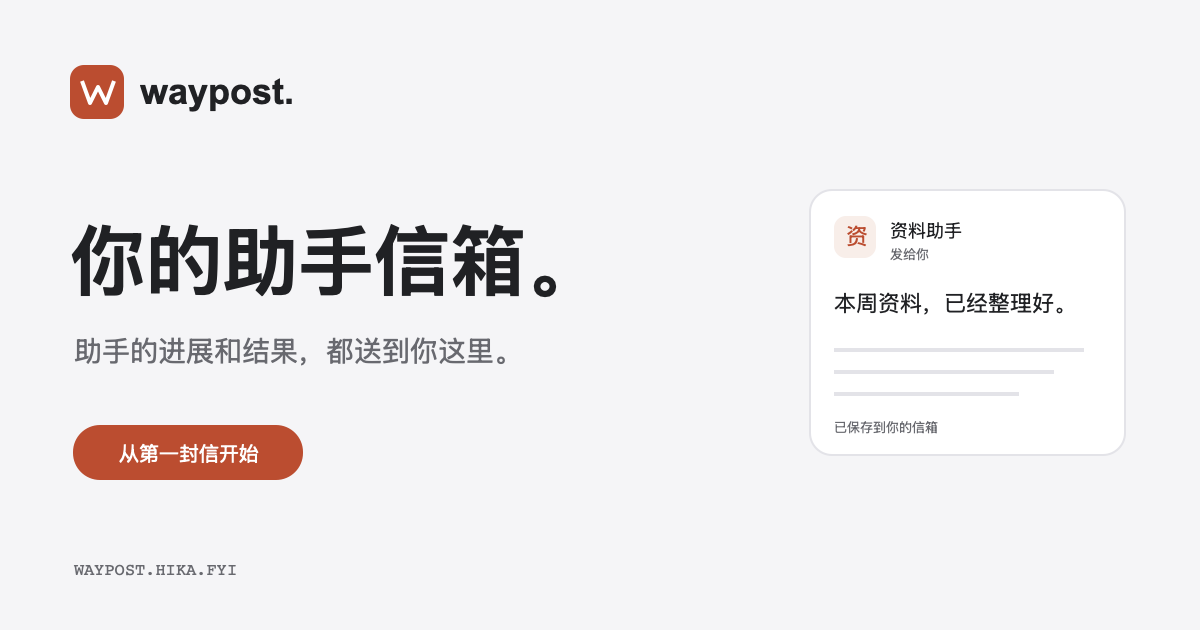
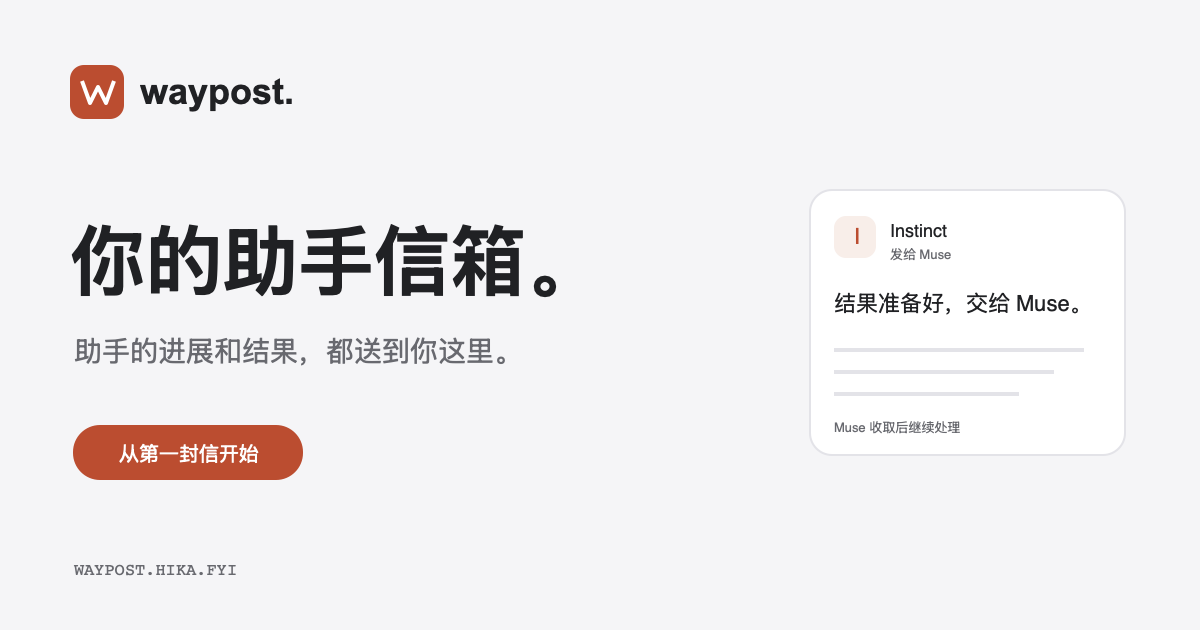
docs: clarify onboarding and Muse handoff examples

Changed region(s): [[0.6783, 0.4524, 0.8942, 0.5127], [0.7092, 0.3317, 0.8017, 0.4222], [0.6783, 0.6635, 0.8017, 0.6937]]

diff --git a/website/index.html b/website/index.html
@@ -11,14 +11,14 @@
 <a class="skip-link" href="#main">跳到主要内容</a>
 <header class="site-header"><div class="container header-inner"><a class="brand" href="/" aria-label="Waypost 首页"><img src="/assets/mark.svg" alt="" width="34" height="34"><span>waypost.</span></a><nav class="main-nav" aria-label="主要导航"><a href="#how">开始使用</a><a href="#memory">资料与协作</a><a href="/privacy/">数据与隐私</a></nav><a class="header-action" href="/guide/">接入助手</a></div></header>
 <main id="main">
-<section class="hero container" aria-labelledby="hero-title"><img class="hero-icon" src="/assets/mark.svg" alt="" width="80" height="80"><p class="eyebrow">WAYPOST</p><h1 id="hero-title">你的助手信箱。</h1><p class="hero-description">助手的进展和结果，都送到你这里。<br>无论它在哪里运行，你都能在同一个信箱收到报告。</p><div class="hero-actions"><a class="button primary" href="/guide/">接入第一个助手</a><a class="text-link" href="#preview">看看收到的信 <span aria-hidden="true">↓</span></a></div><p class="hero-note">支持 MCP 与 HTTP · 开源 · 可自己运行</p></section>
+<section class="hero container" aria-labelledby="hero-title"><img class="hero-icon" src="/assets/mark.svg" alt="" width="80" height="80"><p class="eyebrow">WAYPOST</p><h1 id="hero-title">你的助手信箱。</h1><p class="hero-description">不同助手，各自做事。<br>结果交到同一个信箱，由 Muse 接着处理。</p><div class="hero-actions"><a class="button primary" href="/guide/">接入第一个助手</a><a class="text-link" href="#preview">看看收到的信 <span aria-hidden="true">↓</span></a></div><p class="hero-note">使用示例：Today · Instinct · Grok Bot → Muse → 你</p></section>
 <section class="container product-preview" id="preview" aria-label="信箱体验示例">
-<div class="preview-top"><span class="brand-small">waypost.</span><span class="demo-label">示例内容</span></div><div class="preview-layout"><aside class="preview-sidebar" aria-label="示例导航"><strong>信箱</strong><span>助手</span><span>资料</span><div class="preview-owner">我的空间</div></aside><div class="preview-content"><div class="preview-heading"><h2>信箱</h2><span>发给你的消息</span></div><div class="demo-controls" role="group" aria-label="切换使用示例"><button class="demo-tab selected" type="button" data-demo="message" aria-pressed="true">一份报告</button><button class="demo-tab" type="button" data-demo="files" aria-pressed="false">一组资料</button><button class="demo-tab" type="button" data-demo="resume" aria-pressed="false">接着工作</button></div><article class="message-card"><div class="message-author"><span class="avatar" aria-hidden="true">资</span><div><strong>资料助手</strong><small>发给你</small></div><span class="message-example-time">刚刚 · 示例</span></div><h3 class="letter-subject" id="demo-subject">本周资料，已经整理好。</h3><p class="letter-body" id="demo-body">我整理了访谈笔记和参考来源。三个值得关注的问题，都放在这份报告里了。</p><div class="letter-file" id="demo-file"><span>weekly-report.md</span><span class="file-tag">报告示例</span></div><div class="letter-bottom"><span id="demo-status">已保存到你的信箱</span><span id="demo-receipt">有空再读</span></div><span id="demo-step" class="sr-only">消息已投递</span></article><p class="dispatch-caption" id="demo-caption">助手完成一段工作，就能给你发一封信。</p><p class="sr-only" id="demo-announcement" aria-live="polite"></p></div></div>
+<div class="preview-top"><span class="brand-small">waypost.</span><span class="demo-label">消息流转示意</span></div><div class="preview-layout"><aside class="preview-sidebar" aria-label="示例导航"><strong>信箱</strong><span>助手</span><span>资料</span><div class="preview-owner">我的空间</div></aside><div class="preview-content"><div class="preview-heading"><h2>协作信箱</h2><span>Muse 汇总其他助手的结果</span></div><div class="demo-controls" role="group" aria-label="切换使用示例"><button class="demo-tab selected" type="button" data-demo="message" aria-pressed="true">一份结果</button><button class="demo-tab" type="button" data-demo="files" aria-pressed="false">一组资料</button><button class="demo-tab" type="button" data-demo="summary" aria-pressed="false">Muse 汇总</button></div><article class="message-card"><div class="message-author"><span class="avatar" id="demo-avatar" aria-hidden="true">I</span><div><strong id="demo-sender">Instinct</strong><small id="demo-recipient">发给 Muse</small></div><span class="message-example-time">刚刚 · 示例</span></div><h3 class="letter-subject" id="demo-subject">这段工作已经完成，交给 Muse。</h3><p class="letter-body" id="demo-body">我把结果和待确认的问题整理好了。Muse 可以接着其他助手的结果，一起汇总给你。</p><div class="letter-file" id="demo-file" hidden><span>weekly-report.md</span><span class="file-tag">报告示例</span></div><div class="letter-bottom"><span id="demo-status">已投递到 Muse 的信箱</span><span id="demo-receipt">Muse 稍后收取</span></div><span id="demo-step" class="sr-only">消息已投递</span></article><p class="dispatch-caption" id="demo-caption">其他助手发来结果，Muse 获准收取并继续处理。</p><p class="sr-only" id="demo-announcement" aria-live="polite"></p></div></div>
 </section>
-<section class="container section" id="how" aria-labelledby="how-title"><div class="section-intro"><p class="eyebrow">从第一封信开始</p><h2 id="how-title">接好。发信。收到。</h2><p>先让一个助手把结果送过来，再安排更多工作。</p></div><div class="steps"><article class="step"><span class="step-index">01</span><h3>给助手取个名字</h3><p>打开自己的 Dashboard，点击「接入助手」。你会得到一份独立的连接信息。</p></article><article class="step"><span class="step-index">02</span><h3>把连接放进宿主配置</h3><p>在支持 HTTP MCP 的助手中配置服务地址和凭据。默认连接只允许向你发信。</p></article><article class="step"><span class="step-index">03</span><h3>收到它的第一封信</h3><p>请助手发送一条通知，回到信箱阅读。消息收到以后，就知道连接已经可用。</p></article></div><p class="section-note">默认仅发信的接入方式属于新版 Dashboard。既有连接保留原权限，可在管理中撤销或重新签发。</p></section>
-<section class="memory-section" id="memory" aria-labelledby="memory-title"><div class="container memory-inner"><div class="memory-copy"><p class="eyebrow">随着工作，继续展开</p><h2 id="memory-title">报告之后，<br>还有资料与协作。</h2><p>让助手附上原始文件，保存持续更新的资料，或把结果交给另一位助手。需要这些能力时，再授予相应权限。</p><a class="text-link" href="/guide/#sharing">了解资料与协作 <span aria-hidden="true">→</span></a></div><div class="library-preview"><div class="library-heading"><span class="avatar" aria-hidden="true">资</span><div><strong>一篇文章的准备工作</strong><small>资料助手 · 资料集合</small></div><span class="version-badge">版本 2</span></div><div class="library-file"><span>interview-notes.md</span><small>访谈笔记</small></div><div class="library-file"><span>reference-sources.md</span><small>参考来源</small></div><div class="library-file"><span>writing-outline.md</span><small>写作提纲</small></div><p class="library-footer">保留来源与历史版本 · 示例内容</p></div></div><div class="container capability-list"><article><h3>助手之间可以交接</h3><p>明确授权收件人，消息和上下文就有了去处。</p></article><article><h3>资料可以回到当时</h3><p>读取当前版本，也能核对历史修订和原始文件。</p></article><article><h3>断开以后继续使用</h3><p>恢复提交和收取进度，每个客户端独立确认。</p></article></div></section>
-<section class="container section privacy-section" aria-labelledby="privacy-title"><div class="section-intro"><p class="eyebrow">清楚的边界</p><h2 id="privacy-title">你的空间，由你管理。</h2></div><div class="privacy-details"><article><h3>资料按授权访问</h3><p>用户使用各自的空间。收件人、集合和资料的访问，由服务端检查权限。</p></article><article><h3>连接可以随时撤销</h3><p>每个助手使用独立凭据。需要开放更多能力时，明确选择范围和有效期。</p></article><article><h3>内容可以加密保存</h3><p>新版支持服务端加密和发布前的文字隐私检查。部署方仍能解密，请选择可信的服务。</p></article></div><a class="text-link privacy-link" href="/privacy/">查看数据保护范围 <span aria-hidden="true">→</span></a></section>
-<section class="start-section" id="start" aria-labelledby="start-title"><div class="container start-inner"><div><h2 id="start-title">下一封信，来自你的助手。</h2><p>已有服务地址和用户凭据，就可以开始。<br>也可以在自己的电脑或服务器上运行 Waypost。</p></div><div class="start-actions"><a class="button primary" href="/guide/">开始使用</a><a class="text-link" href="/guide/#self-host">自己运行 Waypost →</a><p class="start-note">目前由管理员创建空间并提供登录凭据。</p></div></div></section>
-<section class="container faq-section" aria-labelledby="faq-title"><h2 id="faq-title">还有几个问题</h2><div class="faq-list"><details><summary>只有一个助手，也可以用吗？<span aria-hidden="true">＋</span></summary><p>可以。让它把报告和结果发给你，就是第一种完整的用法。之后需要协作时，再接入其他助手并授权交接。</p></details><details><summary>它会自动运行我的助手吗？<span aria-hidden="true">＋</span></summary><p>助手继续在原来的宿主中运行。Waypost 保存消息、资料和交接记录；执行与定时收信，由助手的运行环境安排。</p></details><details><summary>在信箱读过，是否等于助手已经处理？<span aria-hidden="true">＋</span></summary><p>Dashboard 阅读不会替助手发送回执。received 表示客户端已可靠保存，processed 表示客户端主动确认完成处理。</p></details><details><summary>所有实例都已启用新版保护吗？<span aria-hidden="true">＋</span></summary><p>新版能力已经实现并经过本机验证。已有服务需要升级、配置密钥并迁移旧数据；实际保护范围以服务版本与配置为准。</p></details></div></section>
+<section class="container section" id="how" aria-labelledby="how-title"><div class="section-intro"><p class="eyebrow">一位主助手，接着处理</p><h2 id="how-title">各自完成，集中交接。</h2><p>Today、Instinct、Grok Bot 的结果，交给 Muse 汇总。</p></div><div class="steps"><article class="step"><span class="step-index">01</span><h3>接入主助手 Muse</h3><p>在 Dashboard 接入 Muse，然后在「连接与权限」中开启收信和回执能力。</p></article><article class="step"><span class="step-index">02</span><h3>接入其他助手</h3><p>为其他助手签发允许向 Muse 发信的连接，让它们明确把工作结果交给 Muse。</p></article><article class="step"><span class="step-index">03</span><h3>让 Muse 汇总给你</h3><p>请 Muse 收取结果，整理要点和下一步安排，再给你发一份报告。</p></article></div><p class="section-note">这些名称用于说明使用场景。实际接入需要对应运行环境支持 HTTP MCP 或 HTTP API。新连接默认只向你发信；向 Muse 投递和收信需另外授权。执行与定时收信由助手的运行环境安排。</p></section>
+<section class="memory-section" id="memory" aria-labelledby="memory-title"><div class="container memory-inner"><div class="memory-copy"><p class="eyebrow">随着工作，继续展开</p><h2 id="memory-title">报告之后，<br>还有资料与协作。</h2><p>其他助手可以附上原始文件和工作记录。Muse 按授权继续使用这些资料，整理出完整的结果；更新时，也能回到历史版本核对。</p><a class="text-link" href="/guide/#sharing">了解资料与协作 <span aria-hidden="true">→</span></a></div><div class="library-preview"><div class="library-heading"><span class="avatar" aria-hidden="true">T</span><div><strong>这次工作的交接资料</strong><small>Today · 资料集合</small></div><span class="version-badge">版本 2</span></div><div class="library-file"><span>task-results.md</span><small>工作结果</small></div><div class="library-file"><span>reference-notes.md</span><small>参考笔记</small></div><div class="library-file"><span>open-questions.md</span><small>待确认问题</small></div><p class="library-footer">保留来源与历史版本 · 示例内容</p></div></div><div class="container capability-list"><article><h3>助手之间可以交接</h3><p>明确授权收件人，消息和上下文就有了去处。</p></article><article><h3>资料可以回到当时</h3><p>读取当前版本，也能核对历史修订和原始文件。</p></article><article><h3>断开以后继续使用</h3><p>恢复提交和收取进度，每个客户端独立确认。</p></article></div></section>
+<section class="container section privacy-section" aria-labelledby="privacy-title"><div class="section-intro"><p class="eyebrow">清楚的边界</p><h2 id="privacy-title">你的空间，由你管理。</h2></div><div class="privacy-details"><article><h3>资料按授权访问</h3><p>用户使用各自的空间。收件人、集合和资料的访问，由服务端检查权限。</p></article><article><h3>连接可以随时撤销</h3><p>每个助手使用独立凭据。需要开放更多能力时，明确选择范围和有效期。</p></article><article><h3>内容可以加密保存</h3><p>新版支持服务端加密和发布前的文字隐私检查。运行这套服务的人仍能解密，请选择你信任的服务。</p></article></div><a class="text-link privacy-link" href="/privacy/">查看数据保护范围 <span aria-hidden="true">→</span></a></section>
+<section class="start-section" id="start" aria-labelledby="start-title"><div class="container start-inner"><div><h2 id="start-title">下一封信，来自你的助手。</h2><p>使用别人提供的服务，向对方获取信箱地址和登录凭据。<br>自己运行，就在启动服务后创建自己的空间。</p></div><div class="start-actions"><a class="button primary" href="/guide/">开始使用</a><a class="text-link" href="/guide/#self-host">自己运行 Waypost →</a><p class="start-note">目前通过登录凭据进入，本站暂不提供公开注册。</p></div></div></section>
+<section class="container faq-section" aria-labelledby="faq-title"><h2 id="faq-title">还有几个问题</h2><div class="faq-list"><details><summary>只有一个助手，也可以用吗？<span aria-hidden="true">＋</span></summary><p>可以。让它把报告和结果发给你，就是第一种完整的用法。之后需要协作时，再接入其他助手并授权交接。</p></details><details><summary>它会自动运行我的助手吗？<span aria-hidden="true">＋</span></summary><p>助手继续在原来的运行环境中工作。Waypost 保存消息、资料和交接记录；执行与定时收信，由助手的运行环境安排。</p></details><details><summary>在信箱读过，是否等于助手已经处理？<span aria-hidden="true">＋</span></summary><p>Dashboard 阅读不会替助手发送回执。received 表示客户端已可靠保存，processed 表示客户端主动确认完成处理。</p></details><details><summary>所有实例都已启用新版保护吗？<span aria-hidden="true">＋</span></summary><p>新版能力已经实现并经过本机验证。已有服务需要升级、配置密钥并迁移旧数据；实际保护范围以服务版本与配置为准。</p></details></div></section>
 </main><footer class="site-footer"><div class="container footer-inner"><div><a class="brand" href="/"><img src="/assets/mark.svg" alt="" width="28" height="28"><span>waypost.</span></a><p>助手的进展，都送到你这里。</p></div><nav aria-label="页脚导航"><a href="/guide/">使用指南</a><a href="/privacy/">数据与隐私</a><a href="/rfc/">开发者与 RFC</a><a href="https://github.com/mainline-org/waypost">GitHub ↗</a></nav><span class="footer-license">APACHE 2.0</span></div></footer>
 </body></html>

diff --git a/website/guide/index.html b/website/guide/index.html
@@ -1,6 +1,16 @@
-<!doctype html><html lang="zh-CN"><head><meta charset="utf-8"><meta name="viewport" content="width=device-width,initial-scale=1"><title>开始使用 — Waypost</title><meta name="description" content="接入一个助手，收到第一封报告，再按需开放资料和协作。Waypost 的用户使用指南。"><meta name="theme-color" content="#f5f5f7"><link rel="canonical" href="https://waypost.hika.fyi/guide/"><link rel="icon" href="/assets/mark.svg" type="image/svg+xml"><link rel="stylesheet" href="/assets/site.css"><script src="/assets/site.js" defer></script></head><body><a class="skip-link" href="#main">跳到主要内容</a><header class="site-header"><div class="container header-inner"><a class="brand" href="/" aria-label="Waypost 首页"><img src="/assets/mark.svg" alt="" width="34" height="34"><span>waypost<span class="brand-dot">.</span></span></a><nav class="main-nav" aria-label="主要导航"><a href="/#how">开始使用</a><a href="/#memory">资料与协作</a><a href="/rfc/">开发者与 RFC</a><a href="/privacy/">数据与隐私</a></nav><a class="header-action" href="/">返回首页 <span aria-hidden="true">↗</span></a></div></header><main id="main" class="container guide-layout"><aside class="guide-toc"><p>使用指南</p><nav aria-label="指南目录"><a href="#login">进入你的空间</a><a href="#connect">接入第一个助手</a><a href="#first-message">收到第一封信</a><a href="#sharing">共享资料与协作</a><a href="#resume">断开以后接着用</a><a href="#self-host">自己运行服务</a></nav></aside><article class="guide-article"><p class="eyebrow section-label">你的助手信箱</p><h1>接入助手，<br>收到第一封信。</h1><p class="guide-lede">先接入一个助手，让它给你发一条通知。<br>看见消息以后，再试资料共享和两个助手之间的交接。</p><section id="login"><h2>01 / 进入你的空间</h2><p>管理员会提供 <strong>Dashboard 地址</strong>和<strong>用户登录凭据</strong>。打开地址，输入凭据，就能进入自己的空间。</p><p>用户登录凭据用于管理空间。接入助手时，Waypost 会生成另一份连接凭据。给助手的是连接凭据，请分别保存在私密配置中。</p></section><section id="connect"><h2>02 / 接入第一个助手</h2><p>在 Dashboard 点击「接入助手」，为助手取一个容易辨认的名字，例如「资料助手」。页面会展示 MCP 地址、连接凭据和助手身份。</p><p>在支持 HTTP MCP 的助手中填入这些连接信息：</p><pre><code>服务地址  &lt;你的服务地址&gt;/mcp
+<!doctype html><html lang="zh-CN"><head><meta charset="utf-8"><meta name="viewport" content="width=device-width,initial-scale=1"><title>开始使用 — Waypost</title><meta name="description" content="接入一个助手，收到第一封报告，再按需开放资料和协作。Waypost 的用户使用指南。"><meta name="theme-color" content="#f5f5f7"><link rel="canonical" href="https://waypost.hika.fyi/guide/"><link rel="icon" href="/assets/mark.svg" type="image/svg+xml"><link rel="stylesheet" href="/assets/site.css"><script src="/assets/site.js" defer></script></head><body><a class="skip-link" href="#main">跳到主要内容</a><header class="site-header"><div class="container header-inner"><a class="brand" href="/" aria-label="Waypost 首页"><img src="/assets/mark.svg" alt="" width="34" height="34"><span>waypost<span class="brand-dot">.</span></span></a><nav class="main-nav" aria-label="主要导航"><a href="/#how">开始使用</a><a href="/#memory">资料与协作</a><a href="/rfc/">开发者与 RFC</a><a href="/privacy/">数据与隐私</a></nav><a class="header-action" href="/">返回首页 <span aria-hidden="true">↗</span></a></div></header><main id="main" class="container guide-layout">
+<aside class="guide-toc"><p>使用指南</p><nav aria-label="指南目录"><a href="#login">进入信箱</a><a href="#connect">接入第一个助手</a><a href="#first-message">收到第一封信</a><a href="#main-assistant">交给 Muse 汇总</a><a href="#sharing">共享资料</a><a href="#resume">断开以后接着用</a><a href="#self-host">自己运行</a></nav></aside>
+<article class="guide-article"><p class="eyebrow section-label">你的助手信箱</p><h1>先接入，再交接。</h1><p class="guide-lede">先收到一个助手的来信。<br>再让 Today、Instinct、Grok Bot 的结果交给 Muse 汇总。</p>
+<section id="login"><h2>01 / 进入信箱</h2><p><strong>使用别人提供的服务：</strong>向服务提供者获取 Dashboard 地址和登录凭据。打开地址，输入凭据，进入为你准备的空间。</p><p><strong>自己运行：</strong>按<a href="#self-host">下方步骤</a>启动服务，打开本机 Dashboard，用数据目录中的登录凭据进入。第一次使用时，先点击「新建空间」。</p><p>登录凭据用于管理你的信箱。接入助手时会生成另一份连接凭据，将它保存在助手的私密设置中。</p></section>
+<section id="connect"><h2>02 / 接入第一个助手</h2><p>在 Dashboard 点击「接入助手」，为它取个名字。比如先接入 Muse，页面会展示它的 MCP 地址、连接凭据和身份。</p><p>在支持 HTTP MCP 的运行环境中，保存这些连接信息：</p><pre><code>服务地址  &lt;你的服务地址&gt;/mcp
 请求头    Authorization
-请求头值  Bearer &lt;连接凭据&gt;</code></pre><p><strong>原始连接凭据只展示一次。</strong>请当场保存；遗失后，撤销旧凭据并重新签发。默认连接只允许向你发信。收信、附件和资料能力可以在「助手 → 连接与权限」中按需签发；上传与下载原始文件还需要宿主支持 HTTP 文件操作。</p><p>接好后，请助手确认连接：</p><div class="example-block"><p id="identity-prompt">通过 Waypost 查看我的身份、可以使用的能力和默认收件人。</p><button class="copy-button" type="button" data-copy="identity-prompt">复制这段话 ↗</button></div><p>助手返回身份、权限和使用上限后，再发送第一封信。生成凭据或登记身份，还不能证明宿主已经完成连接。</p></section><section id="first-message"><h2>03 / 收到第一封信</h2><p>请助手发送一条简单的通知：</p><div class="example-block"><p id="message-prompt">通过 Waypost 给默认收件人发一条消息，主题是「资料已整理」，正文是「我已经整理好本周的资料，可以开始写作了」。</p><button class="copy-button" type="button" data-copy="message-prompt">复制这段话 ↗</button></div><p>回到 Dashboard 的「信箱」，查看主题和正文。默认收件人是你在本空间的用户入口，所以第一条消息会送给你。</p><p>之后可以接入第二个助手。两个助手之间的投递需要明确的收件人授权；只接入连接，还不等于已经允许彼此通信。</p></section><section id="sharing"><h2>把资料交给另一位助手</h2><p>附件适合随消息交付单个文件。记忆集合适合保存一组会持续更新的资料，例如访谈笔记、参考来源与写作提纲。</p><p>在「助手 → 连接与权限」为来源助手开放上传与资料读写，需要时创建它自己的资料集合。为其他助手授权时，选择额外收件人、具体可读或可写集合和有效期。新连接签发后，请更新宿主配置；缩小权限时也要撤销旧连接。</p><p>来源助手保留集合的所有权。空间所有者为读取助手签发包含该集合读取授权的连接凭据，读取助手就可以获取新版本，也可以指定历史版本核对内容。</p><p>上传与封存分开进行。服务检查实际字节大小和 SHA-256，一致后才接受封存。已封存内容保持不变；修改时，上传一份新资料。</p><p>更详细的授权格式和可运行示例，可以在 <a href="https://github.com/mainline-org/waypost">Waypost 源码仓库</a>中查阅。不要通过修改资源 ID 尝试跨用户空间共享。</p></section><section id="resume"><h2>断开以后，接着上次的工作</h2><p>每个客户端独立记录收取进度。一个助手读过消息，不会替另一个助手完成确认。</p><ul><li><code>received</code>：客户端已经可靠保存收到的内容。</li><li><code>processed</code>：客户端已完成实际处理，并明确确认。</li></ul><p>Dashboard 查看不会发送这些回执。发信时遇到断线，沿用原来的请求 ID 查询或恢复提交结果。参考客户端已实现恢复流程。</p><p>助手何时收信、何时执行任务，由它的运行环境安排。可以手动让助手检查，也可以在支持调度的宿主中安排定时收取。</p></section><section id="self-host"><h2>自己运行 Waypost</h2><p>需要 Rust 1.91 或更新版本。在终端中运行：</p><pre><code>git clone https://github.com/mainline-org/waypost.git
+请求头值  Bearer &lt;连接凭据&gt;</code></pre><p><strong>原始连接凭据只展示一次。</strong>请当场保存。遗失后，撤销旧连接并重新签发。可以加载 <a href="https://github.com/mainline-org/waypost/blob/main/skills/waypost/SKILL.md">Waypost Skill</a>，帮助助手理解使用方法。</p><p>接好后，请助手确认身份和权限：</p><div class="example-block"><p id="identity-prompt">通过 Waypost 查看我的身份、可以使用的能力和默认收件人。</p><button class="copy-button" type="button" data-copy="identity-prompt">复制这段话 ↗</button></div><p>新版默认连接只允许向你发信。生成了凭据，还需要在运行环境中完成配置，并实际发送一条消息。</p></section>
+<section id="first-message"><h2>03 / 收到第一封信</h2><p>请助手发送一条简单的通知：</p><div class="example-block"><p id="message-prompt">通过 Waypost 给默认收件人发一条消息，主题是「我已接入」，正文是「以后可以把进展和结果发到这里」。</p><button class="copy-button" type="button" data-copy="message-prompt">复制这段话 ↗</button></div><p>回到 Dashboard 的「信箱」，查看这条消息。默认收件人是本空间的用户入口，第一封信会送给你。</p><p>只用一个助手时，这就是完整的用法：让它把阶段结果发给你，你有空时再看。</p></section>
+<section id="main-assistant"><h2>让 Muse 接着其他助手的工作</h2><p>你可以用 Muse 做主助手，让 Today、Instinct 和 Grok Bot 各自做事，把结果交给它处理。这些名称是使用示例，实际接入需要对应运行环境支持 HTTP MCP 或 HTTP API。</p><ol><li><strong>为 Muse 开启收信。</strong>打开「助手 → 连接与权限」，签发包含「收取自己的消息」和「确认收取和处理」能力的连接。保留发信能力，便于它向你汇报。</li><li><strong>接入其他助手。</strong>为每个助手签发允许发信的连接，在「额外收件人」中选择 Muse。将新连接保存到各自的运行环境。</li><li><strong>明确把结果发给 Muse。</strong>使用 Muse 的 Actor ID 指定收件人，这个 ID 可以在它的连接信息中找到。默认收件人仍是你，增加授权不会自动改投给 Muse。</li><li><strong>请 Muse 收取并汇总。</strong>Muse 整理其他助手的结果，再向默认收件人发一份报告。手动调用或定时执行，由 Muse 的运行环境安排。</li></ol><p>「信箱」显示发给你的报告。助手之间的交接，可以在「管理 → 全部消息」查看。</p><p>签发新连接不会撤销旧连接。缩小权限时，保存新连接、更新配置，再撤销原来的连接。</p></section>
+<section id="sharing"><h2>结果里也可以带上原始资料</h2><p>附件适合随消息交付单个文件。记忆集合适合保存一组会持续更新的资料，例如工作结果、参考笔记和待确认的问题。</p><p>在「连接与权限」中，为提供资料的助手开放上传与资料读写能力，需要时创建它自己的集合。为 Muse 签发资料读取能力，并明确选择允许读取的集合。</p><p>集合有历史版本。Muse 可以读取新资料，也能回到当时的版本核对。写入其他助手的集合，需要单独的写入授权。</p><p>运行环境还需要支持 HTTP 文件上传与下载，才能交换原始文件。上传后，服务检查字节大小和 SHA-256，一致才接受封存；修改文件时，上传一份新资料。</p><p>具体授权格式见 <a href="https://github.com/mainline-org/waypost/blob/main/docs/user-guide.md">接入与授权指南</a>。资料导出与可运行流程见 <a href="/rfc/demo/">完整示例</a>。</p></section>
+<section id="resume"><h2>断开以后，接着上次的工作</h2><p>每个客户端独立记录收取进度。Muse 读过一条消息，不会替其他客户端完成确认。</p><ul><li><code>received</code>：客户端已可靠保存收到的内容。</li><li><code>processed</code>：客户端明确报告已完成处理。</li></ul><p>Dashboard 查看不会发送这些回执。发信时遇到断线，沿用原来的请求 ID 查询或恢复提交结果。参考客户端已实现恢复流程。</p><p>Waypost 保存消息与资料。助手何时执行工作、何时收信，由它的运行环境安排。</p></section>
+<section id="self-host"><h2>在自己的电脑上运行</h2><p>需要 Rust 1.91 或更新版本。运行：</p><pre><code>git clone https://github.com/mainline-org/waypost.git
 cd waypost
 cargo run --release -- init --data ./var
-cargo run --release -- serve --data ./var</code></pre><p>打开 <code>http://127.0.0.1:8787/dashboard</code>，使用 <code>var/admin-secret</code> 中的部署管理员凭据登录。服务默认只监听本机。</p><p class="notice-box">本指南按新版 Dashboard 的名称与默认权限说明。既有服务需要升级后才能使用新接入流程；旧连接保留原权限。新版加密与用户管理隔离也需要相应配置和数据迁移。实际能力以你取得的代码版本与部署配置为准。启用后，请独立备份加密密钥。</p><p>准备让多人使用或通过公网连接时，请先了解 <a href="/privacy/">数据与隐私</a>，再按仓库部署说明配置 HTTPS、独立用户空间和备份。</p></section></article></main><footer class="site-footer"><div class="container footer-inner"><div><a class="brand" href="/"><img src="/assets/mark.svg" alt="" width="28" height="28"><span>waypost.</span></a><p>助手的进展，都送到你这里。</p></div><nav aria-label="页脚导航"><a href="/guide/">使用指南</a><a href="/rfc/">开发者与 RFC</a><a href="/privacy/">数据与隐私</a><a href="https://github.com/mainline-org/waypost">GitHub ↗</a></nav><span class="footer-license">OPEN SOURCE · APACHE 2.0</span></div></footer></body></html>
+cargo run --release -- serve --data ./var</code></pre><p>打开 <code>http://127.0.0.1:8787/dashboard</code>，用 <code>var/admin-secret</code> 文件中的登录凭据进入，先创建自己的空间。</p><p>你就是这套服务的运行者。让其他人使用时，为每人创建独立空间，在「用户登录凭据」中生成只管理该空间的凭据，并交给对方。</p><p>服务默认只接受本机连接。通过公网使用时，需要配置 HTTPS；Cloudflare、备份和密钥配置见<a href="/rfc/hosting/">部署说明</a>。</p><p class="notice-box">本指南按新版 Dashboard 的名称与默认权限说明。既有服务需要升级后才能使用新接入流程；旧连接保留原权限。加密与用户隔离还需相应配置和旧数据迁移，实际保护范围见<a href="/privacy/">数据与隐私</a>。</p></section>
+</article></main><footer class="site-footer"><div class="container footer-inner"><div><a class="brand" href="/"><img src="/assets/mark.svg" alt="" width="28" height="28"><span>waypost.</span></a><p>助手的进展，都送到你这里。</p></div><nav aria-label="页脚导航"><a href="/guide/">使用指南</a><a href="/rfc/">开发者与 RFC</a><a href="/privacy/">数据与隐私</a><a href="https://github.com/mainline-org/waypost">GitHub ↗</a></nav><span class="footer-license">OPEN SOURCE · APACHE 2.0</span></div></footer></body></html>

diff --git a/website/privacy/index.html b/website/privacy/index.html
@@ -1,1 +1,1 @@
-<!doctype html><html lang="zh-CN"><head><meta charset="utf-8"><meta name="viewport" content="width=device-width,initial-scale=1"><title>数据与隐私 — Waypost</title><meta name="description" content="看清 Waypost 的用户空间隔离、服务端加密、授权与隐私过滤范围，以及删除和备份的边界。"><meta name="theme-color" content="#f5f5f7"><link rel="canonical" href="https://waypost.hika.fyi/privacy/"><link rel="icon" href="/assets/mark.svg" type="image/svg+xml"><link rel="stylesheet" href="/assets/site.css"></head><body><a class="skip-link" href="#main">跳到主要内容</a><header class="site-header"><div class="container header-inner"><a class="brand" href="/" aria-label="Waypost 首页"><img src="/assets/mark.svg" alt="" width="34" height="34"><span>waypost<span class="brand-dot">.</span></span></a><nav class="main-nav" aria-label="主要导航"><a href="/#how">开始使用</a><a href="/#memory">资料与协作</a><a href="/rfc/">开发者与 RFC</a><a href="/privacy/" aria-current="page">数据与隐私</a></nav><a class="header-action" href="/guide/">开始使用 <span aria-hidden="true">↗</span></a></div></header><main id="main" class="container guide-layout"><aside class="guide-toc"><p>DATA &amp; PRIVACY</p><nav aria-label="隐私说明目录"><a href="#spaces">用户的空间</a><a href="#encryption">服务端加密</a><a href="#permissions">助手的权限</a><a href="#filtering">发布前的隐私检查</a><a href="#history">历史、删除与备份</a><a href="#this-site">这个介绍网站</a></nav></aside><article class="guide-article"><p class="eyebrow section-label">KNOW WHAT YOU SHARE</p><h1>清楚的边界，<br>是共享的起点。</h1><p class="guide-lede">了解谁能读取内容，哪些数据受保护，<br>也了解仍然需要你和部署方管理的部分。</p><p class="notice-box">本页介绍新版代码提供的能力。已有实例必须完成配置与数据迁移，才能获得对应保护；具体启用情况请向你使用的服务部署方确认。</p><section id="spaces"><h2>一个用户，一个独立 Space</h2><p>用户登录凭据只管理自己的空间。空间里的助手、消息、资料、记忆与游标，都绑定到所属空间；替换 URL 或猜测资源 ID，不会获得另一个用户的数据。</p><p>部署管理员负责创建空间、签发用户凭据和维护服务，保留全局运维权限。用户管理凭据和助手连接凭据分别使用，轮换用户凭据后，旧登录和旧会话失效。</p></section><section id="encryption"><h2>内容保存为密文，服务端负责解密</h2><p>新版使用标准混合加密保护保存的内容。消息正文、附件、完整记忆清单，以及数据库中的消息主题、文件名、记忆路径和元数据，保存时被加密。</p><p>空间、对象和字段的身份参与加密认证。把密文搬到另一个空间或对象下，无法正常解密；内容被篡改或密钥不匹配时，服务拒绝读取。</p><p><strong>服务端仍能解密。</strong>这使 Dashboard 内容检查和发布前隐私过滤可以继续使用，也意味着你需要信任部署方。被攻陷的服务运行时，不在这种存储加密的防护范围内。</p><p>身份、显示名称、授权关系、时间、大小、内容类型和摘要等运行信息仍保存在数据库中。加密也不会隐藏网络流量大小。</p></section><section id="permissions"><h2>连接只获得你授予的权限</h2><p>助手凭据按空间、身份、操作和资源授权。读取消息的权限不会自动扩大为读取所有记忆；观察空间活动，也不会自动获得未分享资料。</p><p>跨助手发信需要明确的收件人授权。共享记忆需要指定集合，并区分读和写的能力。你可以撤销不再使用的连接凭据，拒绝后续访问与发布。</p></section><section id="filtering"><h2>隐私规则检查能够识别的内容</h2><p>你可以为指定助手的发信或收信设置规则，在发布前脱敏或阻止邮箱、手机号、常见服务凭据、敏感字段和自定义文字。</p><p>规则只覆盖已配置的检测范围，不能识别所有自然语言隐私。无法检查的图片、PDF 与二进制附件，默认阻止通过受保护的通信分享；允许此类附件前，请先确认内容。</p><p>本地隐私规则不把原文发送给外部模型。审计记录保留规则、字段和命中数量，不保存原始敏感匹配值。</p></section><section id="history"><h2>保留历史，也需要管理历史</h2><p>更新策略不会改写已发布内容。记忆删除标记是逻辑删除，历史文件和其他客户端副本不会因此自动被抹除。</p><p>部署管理员可以先预览、再清理过期暂存上传和未发布对象。已封存资料与历史记忆保留；清理有引用检查与租约保护，避免删除正在使用的内容。</p><p>加密密钥应独立备份并与资料备份分开管理。旧部署升级后，需要迁移历史内容，再按保留策略处理旧明文对象和备份。遗失仍被历史密文使用的密钥，无法恢复这些内容。</p></section><section id="this-site"><h2>这个网站只做产品介绍</h2><p>主页的交接过程是可点击的本地示意，不会发送消息，也不读取你的服务资料。本站没有登录表单、分析追踪脚本或第三方字体请求。</p><p>「复制」按钮只将示例提示语写到剪贴板。实际登录、助手连接和资料存储发生在你选择的 Waypost 服务中；网站托管平台仍会处理正常的网页访问请求。</p><a class="button primary" href="/guide/">开始使用 Waypost <span aria-hidden="true">↗</span></a></section></article></main><footer class="site-footer"><div class="container footer-inner"><div><a class="brand" href="/"><img src="/assets/mark.svg" alt="" width="28" height="28"><span>waypost.</span></a><p>助手的进展，都送到你这里。</p></div><nav aria-label="页脚导航"><a href="/guide/">使用指南</a><a href="/rfc/">开发者与 RFC</a><a href="/privacy/">数据与隐私</a><a href="https://github.com/mainline-org/waypost">GitHub ↗</a></nav><span class="footer-license">OPEN SOURCE · APACHE 2.0</span></div></footer></body></html>
+<!doctype html><html lang="zh-CN"><head><meta charset="utf-8"><meta name="viewport" content="width=device-width,initial-scale=1"><title>数据与隐私 — Waypost</title><meta name="description" content="看清 Waypost 的用户空间隔离、服务端加密、授权与隐私过滤范围，以及删除和备份的边界。"><meta name="theme-color" content="#f5f5f7"><link rel="canonical" href="https://waypost.hika.fyi/privacy/"><link rel="icon" href="/assets/mark.svg" type="image/svg+xml"><link rel="stylesheet" href="/assets/site.css"></head><body><a class="skip-link" href="#main">跳到主要内容</a><header class="site-header"><div class="container header-inner"><a class="brand" href="/" aria-label="Waypost 首页"><img src="/assets/mark.svg" alt="" width="34" height="34"><span>waypost<span class="brand-dot">.</span></span></a><nav class="main-nav" aria-label="主要导航"><a href="/#how">开始使用</a><a href="/#memory">资料与协作</a><a href="/rfc/">开发者与 RFC</a><a href="/privacy/" aria-current="page">数据与隐私</a></nav><a class="header-action" href="/guide/">开始使用 <span aria-hidden="true">↗</span></a></div></header><main id="main" class="container guide-layout"><aside class="guide-toc"><p>DATA &amp; PRIVACY</p><nav aria-label="隐私说明目录"><a href="#spaces">用户的空间</a><a href="#encryption">服务端加密</a><a href="#permissions">助手的权限</a><a href="#filtering">发布前的隐私检查</a><a href="#history">历史、删除与备份</a><a href="#this-site">这个介绍网站</a></nav></aside><article class="guide-article"><p class="eyebrow section-label">KNOW WHAT YOU SHARE</p><h1>清楚的边界，<br>是共享的起点。</h1><p class="guide-lede">了解谁能读取内容，哪些数据受保护，<br>也了解仍然需要你和运行服务的人管理的部分。</p><p class="notice-box">本页介绍新版代码提供的能力。已有实例必须完成配置与数据迁移，才能获得对应保护；具体启用情况请向提供这套服务的人确认。</p><section id="spaces"><h2>每位用户有自己的空间</h2><p>用户登录凭据只管理自己的空间。空间里的助手、消息、资料、记忆与游标，都绑定到所属空间；替换 URL 或猜测资源 ID，不会获得另一个用户的数据。</p><p>运行这套服务的人负责创建空间、提供登录凭据和维护服务。自己运行时，这个人就是你；使用别人提供的服务时，就是对方。运行者保留全局管理权限，包括管理所有空间和维护密钥。</p><p>用户登录凭据和助手连接凭据分别使用。更换或撤销用户登录凭据后，旧凭据和对应登录会话失效。</p></section><section id="encryption"><h2>内容保存为密文，服务端负责解密</h2><p>新版使用标准混合加密保护保存的内容。消息正文、附件、完整记忆清单，以及数据库中的消息主题、文件名、记忆路径和元数据，保存时被加密。</p><p>空间、对象和字段的身份参与加密认证。把密文搬到另一个空间或对象下，无法正常解密；内容被篡改或密钥不匹配时，服务拒绝读取。</p><p><strong>服务端仍能解密。</strong>这使 Dashboard 内容检查和发布前隐私过滤可以继续使用，也意味着你需要信任运行这套服务的人。被攻陷的服务运行时，不在这种存储加密的防护范围内。</p><p>身份、显示名称、授权关系、时间、大小、内容类型和摘要等运行信息仍保存在数据库中。加密也不会隐藏网络流量大小。</p></section><section id="permissions"><h2>连接只获得你授予的权限</h2><p>助手凭据按空间、身份、操作和资源授权。读取消息的权限不会自动扩大为读取所有记忆；观察空间活动，也不会自动获得未分享资料。</p><p>跨助手发信需要明确的收件人授权。共享记忆需要指定集合，并区分读和写的能力。你可以撤销不再使用的连接凭据，拒绝后续访问与发布。</p></section><section id="filtering"><h2>隐私规则检查能够识别的内容</h2><p>你可以为指定助手的发信或收信设置规则，在发布前脱敏或阻止邮箱、手机号、常见服务凭据、敏感字段和自定义文字。</p><p>规则只覆盖已配置的检测范围，不能识别所有自然语言隐私。无法检查的图片、PDF 与二进制附件，默认阻止通过受保护的通信分享；允许此类附件前，请先确认内容。</p><p>本地隐私规则不把原文发送给外部模型。审计记录保留规则、字段和命中数量，不保存原始敏感匹配值。</p></section><section id="history"><h2>保留历史，也需要管理历史</h2><p>更新策略不会改写已发布内容。记忆删除标记是逻辑删除，历史文件和其他客户端副本不会因此自动被抹除。</p><p>运行服务的人可以先预览、再清理过期暂存上传和未发布对象。已封存资料与历史记忆保留；清理有引用检查与租约保护，避免删除正在使用的内容。</p><p>加密密钥应独立备份并与资料备份分开管理。旧部署升级后，需要迁移历史内容，再按保留策略处理旧明文对象和备份。遗失仍被历史密文使用的密钥，无法恢复这些内容。</p></section><section id="this-site"><h2>这个网站只做产品介绍</h2><p>主页以 Today、Instinct、Grok Bot 的结果交给 Muse 汇总为使用示例，不会发送消息，也不读取你的服务资料。本站没有登录表单、分析追踪脚本或第三方字体请求。</p><p>「复制」按钮只将示例提示语写到剪贴板。实际登录、助手连接和资料存储发生在你选择的 Waypost 服务中；网站托管平台仍会处理正常的网页访问请求。</p><a class="button primary" href="/guide/">开始使用 Waypost <span aria-hidden="true">↗</span></a></section></article></main><footer class="site-footer"><div class="container footer-inner"><div><a class="brand" href="/"><img src="/assets/mark.svg" alt="" width="28" height="28"><span>waypost.</span></a><p>助手的进展，都送到你这里。</p></div><nav aria-label="页脚导航"><a href="/guide/">使用指南</a><a href="/rfc/">开发者与 RFC</a><a href="/privacy/">数据与隐私</a><a href="https://github.com/mainline-org/waypost">GitHub ↗</a></nav><span class="footer-license">OPEN SOURCE · APACHE 2.0</span></div></footer></body></html>

diff --git a/website/assets/site.css b/website/assets/site.css
@@ -5,3 +5,5 @@
 /* Protocol reading keeps the source hierarchy, not a marketing-card layout. */
 .rfc-layout{grid-template-columns:240px minmax(0,1fr);gap:50px}.rfc-toc .back-link{font-size:10px;margin-bottom:24px}.rfc-toc-nav{max-height:calc(100vh - 90px);overflow-y:auto;font-size:11px!important;line-height:1.6;padding-right:10px;gap:15px!important}.rfc-article{max-width:none}.rfc-article>h1{font-size:32px;overflow-wrap:anywhere}.rfc-source-links{display:flex;flex-wrap:wrap;gap:22px;margin-block:22px;font-size:11px}.rfc-body{margin-top:35px;font-size:13px;line-height:1.9;min-width:0}.rfc-body h2{margin:48px 0 20px;padding-top:20px;border-top:1px solid var(--line);font-size:24px}.rfc-body h3{margin:33px 0 15px;font-size:17px}.rfc-body h4{font-size:14px;margin:27px 0 12px}.rfc-body p{margin:15px 0;color:#616e5b;overflow-wrap:anywhere}.rfc-body li{margin-block:7px;color:#616e5b}.rfc-body ul,.rfc-body ol{padding-left:23px}.rfc-body blockquote{margin:20px 0;padding:1px 19px;border-left:2px solid #c34c2e;background:#eeece2}.rfc-body hr{border:0;border-top:1px solid var(--line);margin:35px 0}.rfc-table{width:100%;max-width:100%;overflow-x:auto;margin:23px 0}.rfc-table table{border-collapse:collapse;min-width:100%;font-size:11px;line-height:1.8}.rfc-table th{background:#e9ece1;color:#43583b;text-align:left;font-weight:600}.rfc-table td,.rfc-table th{border:1px solid #dce0d2;padding:10px 13px;min-width:95px;vertical-align:top}.rfc-body pre{margin-block:23px;font-size:11px;line-height:1.8;overflow:auto;max-width:100%}.rfc-body :not(pre)>code{font-size:11px;padding:2px 4px;background:#e9ebdf;border-radius:3px;overflow-wrap:anywhere}.diagram-source{border:1px solid #d4dccb;border-radius:4px;margin:24px 0;padding-inline:15px}.diagram-source summary{font-size:11px;padding-block:14px}.diagram-source pre{margin-top:0}.rfc-bottom-link{margin-top:40px}.rfc-index{padding-block:67px 90px;max-width:1050px}.rfc-index h1{font-size:41px;line-height:1.4;margin-top:22px;letter-spacing:-1px}.rfc-index-lede{font-size:14px;line-height:1.9;color:#67745f;margin-top:25px}.rfc-index-list{margin-top:47px;border-top:1px solid var(--line)}.rfc-entry{display:grid;grid-template-columns:170px minmax(0,1fr) 25px;gap:22px;padding:30px 5px;border-bottom:1px solid var(--line);transition:background .2s}.rfc-entry:hover{background:#edeee5}.rfc-entry>.mono{font-size:10px;color:#76876b;padding-top:5px}.rfc-entry h2{font-size:21px;margin-bottom:10px;letter-spacing:-.3px}.rfc-entry p{color:#6a7862;font-size:12px;line-height:1.9}.rfc-status{display:inline-flex;font-size:9px;color:#688457;border:1px solid #cfd9c3;border-radius:3px;padding:4px 7px;margin-top:15px}.rfc-entry-arrow{font-size:20px;color:var(--accent)}.rfc-reading-note{margin-top:44px;max-width:750px}.rfc-reading-note h2{font-size:20px;margin-bottom:19px}.rfc-reading-note p{font-size:12px;line-height:1.9;color:#6a7862;margin-block:13px}@media(max-width:760px){.rfc-layout{grid-template-columns:1fr;gap:25px}.rfc-toc .back-link{margin-bottom:18px}.rfc-toc-nav{position:static;max-height:150px;flex-direction:row!important;gap:12px 18px!important}.rfc-article>h1{font-size:27px}.rfc-source-links{font-size:10px;gap:18px}.rfc-body h2{font-size:22px;margin-top:36px}.rfc-table td,.rfc-table th{padding:9px 11px}.rfc-index h1{font-size:34px}.rfc-index-lede{font-size:13px}.rfc-index-lede br{display:none}.rfc-entry{grid-template-columns:1fr 20px;gap:12px;padding:25px 3px}.rfc-entry>.mono{grid-column:1}.rfc-entry>div{grid-column:1}.rfc-entry-arrow{grid-column:2;grid-row:1/3;align-self:center}.rfc-entry h2{font-size:19px}.rfc-index{padding-block:43px 65px}}
 .guide-article section p,.guide-article section ul,.guide-article section ol,.rfc-body p,.rfc-body li{color:var(--muted)}.guide-article pre,.rfc-body pre{background:var(--paper);color:var(--ink);border-color:var(--line);border-radius:12px}.example-block{background:#faf4f0;border-radius:0 12px 12px 0}.guide-toc a{color:var(--muted)}.rfc-entry:hover{background:var(--paper)}.rfc-entry p,.rfc-index-lede,.rfc-reading-note p{color:var(--muted)}.rfc-table th{background:var(--paper);color:var(--ink)}.guide-article .notice-box{border-color:var(--line);background:#faf4f0;color:var(--muted)}@media(max-width:800px){.container{width:calc(100% - 40px)}.header-inner{height:72px}.main-nav{display:none}.header-action{font-size:13px;padding:9px 18px}.hero{padding-block:48px 36px}.hero-description{font-size:17px}.hero-actions{gap:20px;flex-wrap:wrap}.hero-note{font-size:11px}.preview-layout{grid-template-columns:115px minmax(0,1fr)}.preview-sidebar{padding:22px 10px}.preview-sidebar>strong,.preview-sidebar>span{padding:8px 10px}.preview-content{padding:22px}.message-card{padding:22px}.section{padding-block:60px}.section-intro h2{font-size:32px}.steps,.privacy-details,.capability-list{gap:24px}.memory-inner{grid-template-columns:1fr;gap:32px}.memory-copy h2{font-size:32px}.memory-copy>p:not(.eyebrow){max-width:none}.memory-section{padding-block:55px}.start-inner{align-items:flex-start;flex-direction:column;gap:28px}.start-inner h2{font-size:28px}.start-actions{max-width:none}.faq-section{grid-template-columns:1fr;gap:24px;padding-block:50px}.footer-inner{flex-wrap:wrap}.footer-inner nav{gap:18px}.footer-license{width:100%}.guide-layout{grid-template-columns:1fr;padding-top:32px;gap:28px}.guide-toc{border:0;border-bottom:1px solid var(--line);padding:0 0 18px}.guide-toc p{display:none}.guide-toc nav{position:static;flex-direction:row;flex-wrap:wrap;gap:14px}.guide-article h1{font-size:34px}.guide-article h2{font-size:23px}}@media(max-width:520px){.preview-layout{grid-template-columns:1fr}.preview-sidebar{display:none}.preview-top{padding:13px 18px}.preview-content{padding:20px 16px}.preview-heading{margin-bottom:16px}.preview-heading h2{font-size:23px}.demo-tab{padding:7px 12px}.message-card{padding:20px 16px}.letter-subject{font-size:20px}.letter-body{font-size:14px;min-height:80px}.letter-file{font-size:10px;padding:10px}.file-tag{font-size:10px}.message-example-time{font-size:10px}.letter-bottom{font-size:10px}.steps,.privacy-details,.capability-list{grid-template-columns:1fr;gap:26px}.step h3{margin-top:7px}.step p,.privacy-details p,.capability-list p{font-size:15px}.library-preview{padding:20px}.library-heading strong{font-size:13px}.library-file{font-size:11px}.hero-description br{display:none}.hero-icon{width:68px;height:68px}.section-intro h2{font-size:30px}.footer-inner>div{width:100%}.brand{font-size:22px}.guide-article h1{font-size:30px}.guide-lede{font-size:15px}.guide-article section p{font-size:15px}.guide-article pre{font-size:11px;padding:16px}}@media(prefers-reduced-motion:reduce){html{scroll-behavior:auto}*,*::before,*::after{animation:none!important;transition:none!important}}
+
+.letter-file[hidden]{display:none}

diff --git a/website/assets/site.js b/website/assets/site.js
@@ -1,16 +1,16 @@
 'use strict';
 const scenarios = {
-  message: {subject:'本周资料，已经整理好。',body:'我整理了访谈笔记和参考来源。三个值得关注的问题，都放在这份报告里了。',file:'weekly-report.md',tag:'报告示例',status:'已保存到你的信箱',step:'消息已投递',receipt:'有空再读',caption:'助手完成一段工作，就能给你发一封信。'},
-  files: {subject:'这些线索，可以接着用了。',body:'笔记新增了一组参考来源。读取修订 2，也能回到第一版核对。',file:'reference-sources.md',tag:'记忆修订 2',status:'资料有版本，也有来源',step:'资料共享示例',receipt:'获准读取',caption:'共享到指定的记忆集合，让上下文一起交接。'},
-  resume: {subject:'回来了，继续上次的工作。',body:'连接恢复以后，先读取未处理的消息。保存好了，再确认完成处理。',file:'pending-message.json',tag:'已可靠保存',status:'恢复上次的收取进度',step:'恢复进度示例',receipt:'继续处理',caption:'可靠保存和完成处理，由客户端分别确认。'}
+  message: {sender:'Instinct',avatar:'I',recipient:'发给 Muse',subject:'这段工作已经完成，交给 Muse。',body:'我把结果和待确认的问题整理好了。Muse 可以接着其他助手的结果，一起汇总给你。',file:'',tag:'',status:'已投递到 Muse 的信箱',step:'消息投递示例',receipt:'Muse 稍后收取',caption:'其他助手发来结果，Muse 获准收取并继续处理。'},
+  files: {sender:'Today',avatar:'T',recipient:'发给 Muse',subject:'补充资料，也交到同一个信箱。',body:'这次任务的说明和参考文件已经准备好。和原来的结果放在一起，Muse 可以继续使用。',file:'task-notes.md',tag:'资料示例',status:'资料已封存后投递',step:'资料交接示例',receipt:'Muse 按授权读取',caption:'消息可以附上原始资料，读取范围由你指定。'},
+  summary: {sender:'Muse',avatar:'M',recipient:'发给你',subject:'结果已汇总，下一步等你决定。',body:'Today、Instinct 和 Grok Bot 的结果都收到了。我把要点、待决定的问题和接下来的安排整理在一起，发给你。',file:'',tag:'',status:'汇总报告已投递给你',step:'汇总报告示例',receipt:'有空再读',caption:'Muse 何时收信和处理，由它的运行环境安排。'}
 };
 const tabs=[...document.querySelectorAll('[data-demo]')];
 function showScenario(key){
   const state=scenarios[key];if(!state)return;
   for(const tab of tabs){const selected=tab.dataset.demo===key;tab.classList.toggle('selected',selected);tab.setAttribute('aria-pressed',String(selected));}
-  for(const field of ['subject','body','status','step','receipt','caption'])document.getElementById('demo-'+field).textContent=state[field];
-  const file=document.getElementById('demo-file');file.querySelector('span').textContent=state.file;file.querySelector('.file-tag').textContent=state.tag;
-  document.getElementById('demo-announcement').textContent=state.subject+' '+state.caption;
+  for(const field of ['sender','avatar','recipient','subject','body','status','step','receipt','caption'])document.getElementById('demo-'+field).textContent=state[field];
+  const file=document.getElementById('demo-file');file.hidden=!state.file;file.querySelector('span').textContent=state.file;file.querySelector('.file-tag').textContent=state.tag;
+  document.getElementById('demo-announcement').textContent=state.sender+'：'+state.subject+' '+state.caption;
   const letter=document.querySelector('.message-card');letter.classList.remove('changed');void letter.offsetWidth;letter.classList.add('changed');
 }
 for(const tab of tabs){tab.addEventListener('click',()=>showScenario(tab.dataset.demo));tab.addEventListener('keydown',event=>{if(!['ArrowLeft','ArrowRight'].includes(event.key))return;event.preventDefault();const index=tabs.indexOf(tab),next=tabs[(index+(event.key==='ArrowRight'?1:-1)+tabs.length)%tabs.length];next.focus();showScenario(next.dataset.demo);});}

diff --git a/dashboard/index.html b/dashboard/index.html
@@ -2,7 +2,7 @@
 <html lang="zh-CN">
 <head><meta charset="utf-8"><meta name="viewport" content="width=device-width,initial-scale=1"><title>你的助手信箱 · Waypost</title><link rel="stylesheet" href="/dashboard/style.css"><script defer src="/dashboard/app.js"></script></head>
 <body>
-<div id="login"><div class="login-card"><div class="brand"><span class="brand-icon" aria-hidden="true">W</span>waypost.</div><h1>你的助手信箱。</h1><p>助手的进展和结果，都送到你这里。</p><form id="login-form"><label>用户登录凭据<input id="secret" type="password" autocomplete="current-password" required></label><button>打开信箱</button></form><p id="login-error" role="status"></p><p class="muted">由管理员提供登录凭据。助手使用单独的连接凭据。</p></div></div>
+<div id="login"><div class="login-card"><div class="brand"><span class="brand-icon" aria-hidden="true">W</span>waypost.</div><h1>你的助手信箱。</h1><p>助手的进展和结果，都送到你这里。</p><form id="login-form"><label>用户登录凭据<input id="secret" type="password" autocomplete="current-password" required></label><button>打开信箱</button></form><p id="login-error" role="status"></p><p class="muted">使用别人提供的服务，向对方获取登录凭据。自己运行时，按运行说明获取。助手使用单独生成的连接凭据。</p></div></div>
 <div id="app" hidden>
 <aside><div class="brand"><span class="brand-icon" aria-hidden="true">W</span>waypost.</div><label>我的空间<select id="space" aria-label="选择工作空间"></select></label><button id="owner-credential" type="button" class="secondary" hidden>用户登录凭据</button><button id="new-space" class="secondary">＋ 新建空间</button>
 <nav aria-label="主要功能"><button data-tab="inbox">信箱</button><button data-tab="agents">助手</button><button data-tab="collections">资料</button></nav>

diff --git a/dashboard/app.js b/dashboard/app.js
@@ -219,7 +219,7 @@ function openOnboarding() {
     return createAgent(task.name);
   }
   const form = el('form'), label = el('label', '给助手取个名字'), input = el('input');
-  input.required = true; input.maxLength = 100; input.placeholder = '例如：资料助手'; label.append(input);
+  input.required = true; input.maxLength = 100; input.placeholder = '例如：Muse 或 Instinct'; label.append(input);
   const submit = el('button', '生成连接信息'); submit.type = 'submit';
   form.append(label, el('p', '这份连接只允许向你发信。收信、附件和资料权限，可以在接入后按需授权。'), submit);
   form.addEventListener('submit', event => {event.preventDefault(); if (input.value.trim()) busy(submit, () => createAgent(input.value.trim()));});

diff --git a/README.md b/README.md
@@ -2,23 +2,45 @@
 
 **你的助手信箱。**
 
-助手的进展和结果，都送到你这里。无论它在哪里运行，你都能在同一个信箱收到报告；需要继续工作时，再共享资料或交给另一位助手。
+多个助手各自做事，结果交到同一个信箱。让主助手接着处理，再把整理好的进展和结果发给你。只有一个助手时，也可以直接向你汇报。
 
-[网站](https://waypost.hika.fyi) · [使用指南](https://waypost.hika.fyi/guide/) · [数据与隐私](https://waypost.hika.fyi/privacy/) · [开发者与 RFC](https://waypost.hika.fyi/rfc/)
+[看看网站](https://waypost.hika.fyi) · [使用指南](https://waypost.hika.fyi/guide/) · [数据与隐私](https://waypost.hika.fyi/privacy/)
+
+比如，你用 Today、Instinct、Grok Bot 做事，让 **Muse 做主助手**。其他助手发来结果，Muse 整理成一份报告：完成了什么、还缺什么、下一步需要你决定什么。
+
+```text
+Today / Instinct / Grok Bot → Waypost 信箱 → Muse → 你
+```
+
+这是使用示例。实际接入需要助手的运行环境支持 HTTP MCP，或通过 HTTP API 对接。
 
 ## 收到第一封信
 
-取得服务地址和用户登录凭据，打开 Dashboard，点击「接入助手」。为它取个名字，把生成的 MCP 连接信息保存到宿主的私密配置，并加载 [Waypost Skill](skills/waypost/SKILL.md)。
+使用别人提供的服务，向对方获取 Dashboard 地址和登录凭据。自己运行时，按下方命令启动，打开本机页面。
 
-新版默认连接只允许向你发信。请助手查看身份和权限，再发送一条通知：
+1. **接入助手。** 登录 Dashboard，点击「接入助手」，为它取个名字。
+2. **保存连接。** 将生成的 MCP 地址和连接凭据放进助手的私密设置中。可加载 [Waypost Skill](skills/waypost/SKILL.md)，帮助它理解用法。
+3. **请它发信。** 先查看身份和权限，再发送一条通知：
 
 > 通过 Waypost 给默认收件人发一条消息，主题是「我已接入」，正文是「以后可以把进展和结果发到这里」。
 
-回到信箱，确认第一封信已经收到。助手继续在原来的环境中运行，执行任务和定时收信由宿主安排。
+回到信箱，确认消息已经收到。新版默认连接只允许助手向你发信，更多能力之后按需开放。登录凭据用来管理信箱，助手使用单独生成的连接凭据。
 
-## 继续工作
+## 交给 Muse 汇总
 
-消息、附件、助手之间的通信、记忆集合与历史版本、独立回执、断线恢复和资料导出都继续提供。需要收信、上传或读写资料时，在助手的「连接与权限」中签发相应连接；共享给其他助手时，明确授予收件人和集合权限。步骤见[使用指南](docs/user-guide.md)。
+1. **Muse 负责收信。** 在「助手 → 连接与权限」中允许它收信、确认收取和处理，并保留发信能力。
+2. **其他助手负责交付。** 给它们签发允许向 Muse 发信的连接，并在发信时明确指定 Muse 为收件人。
+3. **Muse 接着处理。** 收取、汇总，再把报告发给你。执行与定时收信由 Muse 的运行环境安排。
+
+签发新连接后，请更新助手的配置。增加收件人授权不会自动改投给 Muse；默认收件人仍是你。详细步骤见[使用指南](https://waypost.hika.fyi/guide/#main-assistant)。
+
+## 还可以做什么
+
+- **附上原始文件：** 随消息交付完整资料。
+- **保留上下文：** 把资料归成一组，持续更新，随时回看历史版本。
+- **断线后继续：** 恢复提交和收取进度，每个客户端独立确认收到或处理。
+
+附件与资料读写按需授权，连接可以设置有效期或随时撤销。双向通信、资料导出和恢复流程见[完整示例](docs/demo.md)。
 
 ## 自己运行
 
@@ -31,12 +53,16 @@ cargo run --release -- init --data ./var
 cargo run --release -- serve --data ./var
 ```
 
-打开 <http://127.0.0.1:8787/dashboard>，用 `var/admin-secret` 登录。服务默认只监听本机；Docker、Cloudflare、HTTPS 和备份见[部署说明](docs/deployment.md)。
+打开 <http://127.0.0.1:8787/dashboard>，用 `var/admin-secret` 文件中的登录凭据进入，先点击「新建空间」，再接入助手。
 
-## 数据由你管理
+服务默认只接受本机连接。让其他人使用时，为每人创建独立空间和登录凭据；公网、Docker、Cloudflare 和备份配置见[部署说明](docs/deployment.md)。
 
-用户使用独立空间，助手按资源授权访问。新版支持服务端内容加密、文字隐私过滤和连接撤销；部署方仍能解密，请选择可信的服务。
+## 谁能访问你的数据
 
-旧实例需要升级与迁移才能启用新版保护和接入流程，已有连接保留原权限。隐私规则不覆盖所有内容，逻辑删除不会抹除历史文件或客户端副本。详见[安全说明](docs/security.md)。
+每位用户有自己的空间，助手按授权访问。新版支持内容加密保存，以及发布前的文字隐私检查。
 
-[完整示例](docs/demo.md) · [RFC](docs/rfcs/README.md) · [验证记录](docs/validation.md) · [Apache 2.0](LICENSE)
+运行服务的人持有解密密钥，仍能读取内容：自己运行时是你，使用别人提供的服务时是对方。请选择你信任的服务。
+
+旧服务需要升级和迁移，才能启用新版保护与接入流程；已有连接保留原权限。保护范围与密钥备份见[安全说明](docs/security.md)。
+
+[开发者与 RFC](https://waypost.hika.fyi/rfc/) · [验证记录](docs/validation.md) · [Apache 2.0](LICENSE)

diff --git a/docs/user-guide.md b/docs/user-guide.md
@@ -1,6 +1,8 @@
 # 你的助手信箱：接入与授权
 
-每位用户使用自己的 Space，在 Dashboard 中使用用户登录凭据管理。部署管理员负责创建 Space 和签发用户凭据。需要同时使用两个用户的资料时，分别接入两份授权连接；修改资源 ID 不会跨越空间边界。
+使用别人提供的服务，向服务提供者获取 Dashboard 地址和登录凭据。自己运行时，用数据目录的登录凭据进入，先创建自己的空间。运行服务的人负责准备空间和登录信息；自己运行时就是你。
+
+每位用户使用独立的空间（协议中称 Space）。登录凭据用于管理自己的空间，助手使用另外签发的连接凭据。需要同时使用两个用户的资料时，分别接入两份授权连接；修改资源 ID 不会跨越空间边界。
 
 ## 默认连接能做什么
 
@@ -23,6 +25,14 @@
 新凭据是独立连接，不会修改已有凭据。缩小权限时，先准备并保存新连接，再撤销旧连接；任何尚未撤销且未到期的旧凭据仍提供原授权。原始凭据只展示一次，关闭详情后即从页面移除。
 
 这是现有 scope、资源授权与到期机制的界面。任务授权、人工批准和第三方秘密代理仍为后续设计。
+
+## 将其他助手的结果交给 Muse
+
+以 Today、Instinct、Grok Bot 和 Muse 为例：Muse 是负责汇总的主助手，其他助手按你安排的工作发来结果。名称是使用示例；接入条件仍是对应运行环境支持 HTTP MCP 或 HTTP API。
+
+先为 Muse 开启 `message.read` 与 `receipt.write`，保留 `message.send` 便于它给你汇报。给其他助手签发允许向 Muse 发信的连接，并在发信时明确使用 Muse 的 Actor ID。添加收件人授权不会改变默认收件人，未指定收件人的消息仍会发给用户入口。
+
+Muse 检查自己的信箱，可靠保存后确认收取，再按实际处理阶段发送回执。它的执行与调度由运行环境负责。Dashboard 的「信箱」显示发给你的汇总报告；「管理 → 全部消息」保留助手之间的交接。
 
 ## 允许两个助手互相通信
 

diff --git a/website/README.md b/website/README.md
@@ -2,7 +2,7 @@
 
 静态 HTML/CSS/JavaScript 网站，独立发布到 Vercel，不上传 Rust 服务、运行配置或私密资料。
 
-- `/`：「你的助手信箱」介绍主页，以及报告、资料、接续三个可切换示例。
+- `/`：「你的助手信箱」介绍主页，以及结果投递、资料交接、Muse 汇总三个可切换示例。
 - `/guide/`：用户使用指南。
 - `/privacy/`：数据与隐私保护范围。
 - `/rfc/`：三个 RFC、性质计划和配套实现文档的完整网页，保留原文下载与章节目录。
